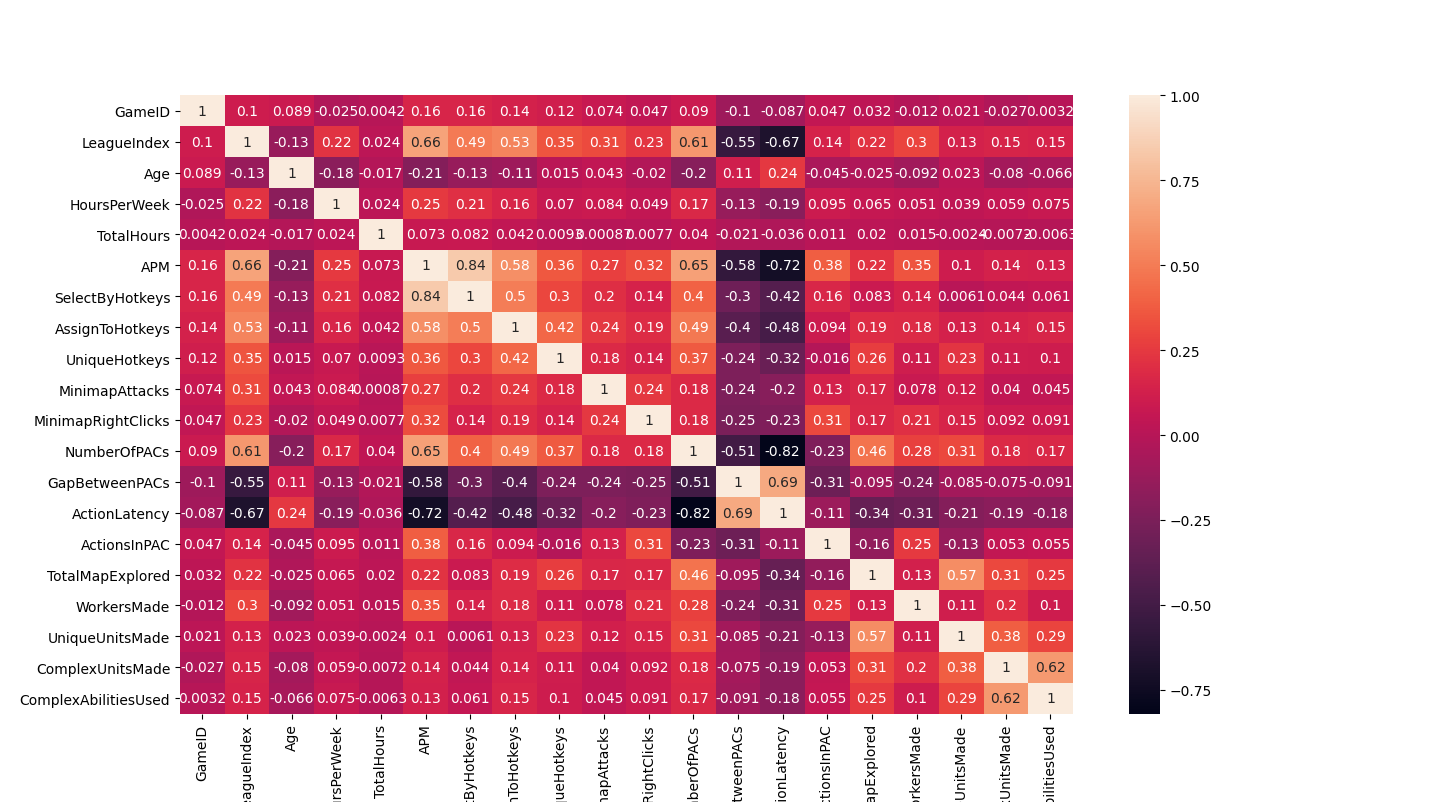
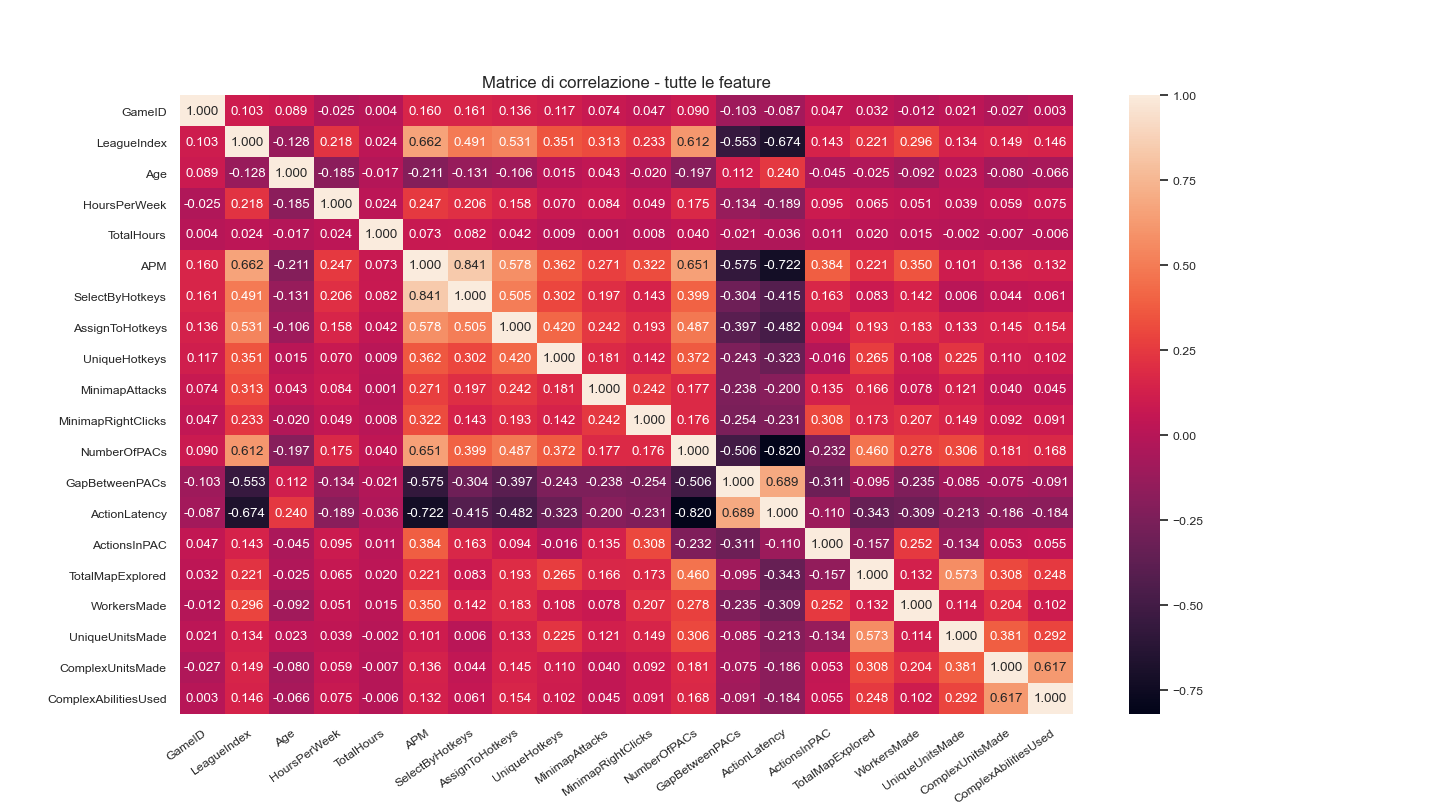
Migliorato l'eda

diff --git a/code/eda.py b/code/eda.py
@@ -24,35 +24,45 @@ z = df[df['HoursPerWeek'].isnull()]
 k = df[df['TotalHours'].isnull()]
  
 bins = np.linspace(0, 9, 15)
-plt.hist([y['LeagueIndex'], z['LeagueIndex'], k['LeagueIndex']], bins, label=['Age', 'HoursPerWeek', 'TotalHours'])
-plt.xlabel('League Index')
+plt.hist([y['LeagueIndex'], z['LeagueIndex'], k['LeagueIndex']],
+          bins, 
+          label=['Age', 'HoursPerWeek', 'TotalHours'])
+plt.title("Distribuzione elementi nulli")
+plt.xlabel('Indice della lega')
 plt.xticks(range(1, 9))
 plt.legend(loc='upper left')
 plt.show()
 
 #controllo quanti nulli ci sono nella lega 8
 x = df.loc[df['LeagueIndex'] == 8]
-print(x)
+print(x) #--> queste colonne sono nulle per tutti i valori della classe 8
 
 #guardo la correlazione di queste colonne con LeagueIndex
 
 cor_mat = df.corr()
-h = sea.heatmap(cor_mat, annot=True)
+
+sea.set(font_scale=0.8)
+h = sea.heatmap(cor_mat, annot=True, fmt='.3f')
+h.set_title("Matrice di correlazione - tutte le feature", size=12)
+plt.setp(h.get_xticklabels(), rotation=35, ha="right",
+         rotation_mode="anchor")
+
+
 plt.show()
 
 #le colonne Age, HoursPerWeek e TotalHours sono nulle in tutte le righe della lega 8 e in più hanno dei livelli di correlazione con
 # LeagueIndex bassi, quindi decido di scartare le colonne. Tolgo anche GameId perchè non lo ritengo fuzionale all'algoritmo
 
-x_df = df.drop(columns=['LeagueIndex','Age', 'HoursPerWeek', 'TotalHours', 'GameID']) 
+df = df.drop(columns=['Age', 'HoursPerWeek', 'TotalHours', 'GameID']) 
 
 
 
-print(x_df.isnull().sum())
+print(df.isnull().sum())
 #Non ci sono altri NAN
 
 #Guardo che tipo di relazione hanno le features tra di loro
 
-sea.set(font_scale=0.5)
+'''sea.set(font_scale=0.5)
 p = sea.pairplot(df[['LeagueIndex','APM','SelectByHotkeys','AssignToHotkeys','UniqueHotkeys',
                 'MinimapAttacks','MinimapRightClicks','NumberOfPACs','GapBetweenPACs',
                 'ActionLatency','ActionsInPAC','TotalMapExplored','WorkersMade','UniqueUnitsMade',
@@ -63,19 +73,26 @@ p = sea.pairplot(df[['LeagueIndex','APM','SelectByHotkeys','AssignToHotkeys','Un
                  line_kws={'color': 'red'}  )) 
 p.set(xticklabels=[])
 p.set(yticklabels=[])
-plt.show()
-
+plt.show() # il grafico non è chiarissimo per via del grosso numero di feature,
+           # è meglio guardare la correlazione tra le feature tra di loro con una
+           # matrice di correlazione e il tipo di relazione con la variabile target
+           # in un pairplot a parte
+'''
 #plot della riga prima riga del pairplot
-p1 = sea.pairplot(data=x_df, y_vars=['LeagueIndex'], x_vars=['APM','SelectByHotkeys','AssignToHotkeys','UniqueHotkeys','MinimapAttacks'], hue='LeagueIndex', palette='crest')
+sea.set(font_scale=0.5)
+p1 = sea.pairplot(data=df, y_vars=['LeagueIndex'],
+                  x_vars=['APM','SelectByHotkeys','AssignToHotkeys','UniqueHotkeys','MinimapAttacks'],
+                  hue='LeagueIndex', 
+                  palette='crest')
 p1.savefig('p1.png', dpi=300)
 plt.close(p1.fig)
 
-p2 = sea.pairplot(data=x_df, y_vars=['LeagueIndex'], x_vars=['MinimapRightClicks','NumberOfPACs','GapBetweenPACs','ActionLatency','ActionsInPAC',], hue='LeagueIndex', palette='crest')
+p2 = sea.pairplot(data=df, y_vars=['LeagueIndex'], x_vars=['MinimapRightClicks','NumberOfPACs','GapBetweenPACs','ActionLatency','ActionsInPAC',], hue='LeagueIndex', palette='crest')
 p2._legend.remove()
 p2.savefig('p2.png', dpi=300)
 plt.close(p2.fig)
 
-p3 = sea.pairplot(data=x_df, y_vars=['LeagueIndex'], x_vars=['TotalMapExplored','WorkersMade','UniqueUnitsMade','ComplexUnitsMade','ComplexAbilitiesUsed'], hue='LeagueIndex', palette='crest')
+p3 = sea.pairplot(data=df, y_vars=['LeagueIndex'], x_vars=['TotalMapExplored','WorkersMade','UniqueUnitsMade','ComplexUnitsMade','ComplexAbilitiesUsed'], hue='LeagueIndex', palette='crest')
 p3._legend.remove()
 p3.savefig('p3.png', dpi=300)
 plt.close(p3.fig)
@@ -95,19 +112,25 @@ plt.tight_layout()
 plt.show()
 
 #matrice di correlazione dopo aver pulito i dati dai valori nulli e dalle feature inutili
-sea.set(font_scale=1)
-cor_mat = x_df.corr()
+sea.set(font_scale=0.8)
+cor_mat = df.corr()
 h1 = sea.heatmap(cor_mat, annot=True)
+h1.set_title("Matrice di correlazione - feature selezionate", size=12)
+plt.setp(h1.get_xticklabels(), rotation=35, ha="right",
+         rotation_mode="anchor")
 plt.show()
 
 #controllo se il dataset è sbilanciato
-'''
-bins = np.linspace(0, 9, 30)
-plt.hist(x_df['LeagueIndex'], bins)
-plt.xticks(range(1, 9))
-plt.show()'''
 
-x_df.to_csv(r'dataset\Skillcraft_basic_preprocess.csv')
+u, inv = np.unique(df['LeagueIndex'], return_inverse=True)
+counts = np.bincount(inv)
+plt.bar(u, counts, width=0.3)
+plt.xticks(range(1, 9))
+plt.title("Bilanciamento del dataset")
+plt.show()
+
+
+df.to_csv(r'dataset\Skillcraft_basic_preprocess.csv')
 
 
 

diff --git a/code/models.py b/code/models.py
@@ -27,6 +27,8 @@ def Test_performance(pred,y_test, rank_names, name): #Funzione per valutare le p
     print ("{:<15} {:<20} {:<20} {:<20} {:<20}".format('Rank','Precision','Recall','F1 score','Support'))
     for k, v in report.items():    
         print ("{:<15} {:<20} {:<20} {:<20}  {:<20}".format(k, v['precision'],v['recall'],v['f1-score'],v['support']))
+    
+    #memorizzo i risultati per la valutazione
     dfr = pd.DataFrame(report)
     dfr.to_excel('risultati/'+name+'.xlsx')    
     df2 = pd.DataFrame({"name":[name],
@@ -36,8 +38,7 @@ def Test_performance(pred,y_test, rank_names, name): #Funzione per valutare le p
                         "precision macro": [report['macro avg']['precision']],
                         "recall weighted":[report['weighted avg']['recall']],
                         "recall macro": [report['macro avg']['recall']],                       
-                        })
-   
+                        })   
     result = result.append(df2, ignore_index = True)
  
 
